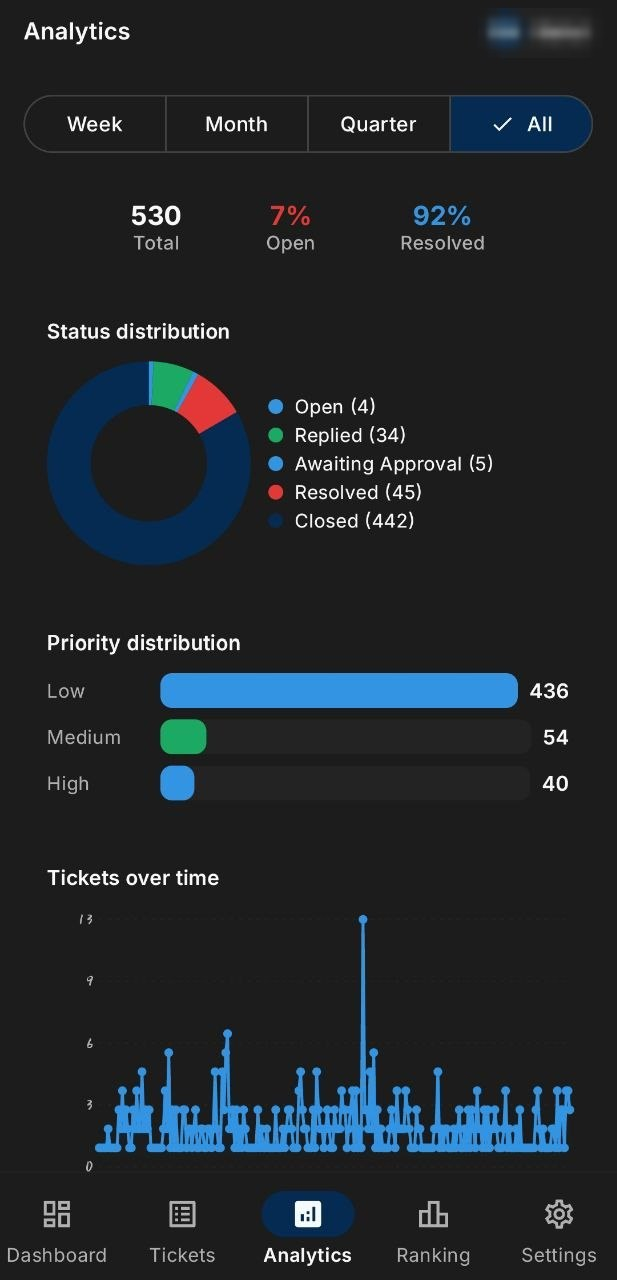
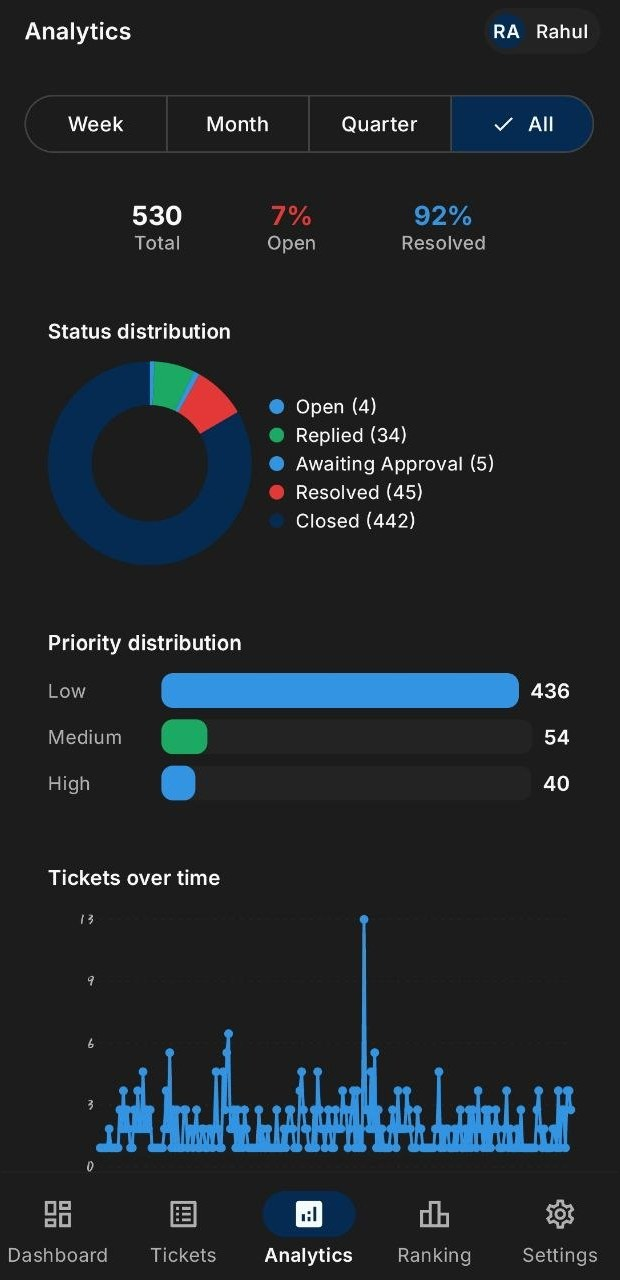
docs: add app screenshots

diff --git a/README.md b/README.md
@@ -10,8 +10,8 @@ tickets, reply to them, and look at how the queue is doing, from your phone.
   <img src="screenshots/settings.jpg" width="24%" alt="Settings" />
 </p>
 
-Dashboard, analytics, agent ranking, and settings. Names are masked in these
-shots; the app shows them as they are.
+Dashboard, analytics, agent ranking, and settings. Other people's names are
+masked in these shots; the app shows them as they are.
 
 ## What you need
 
